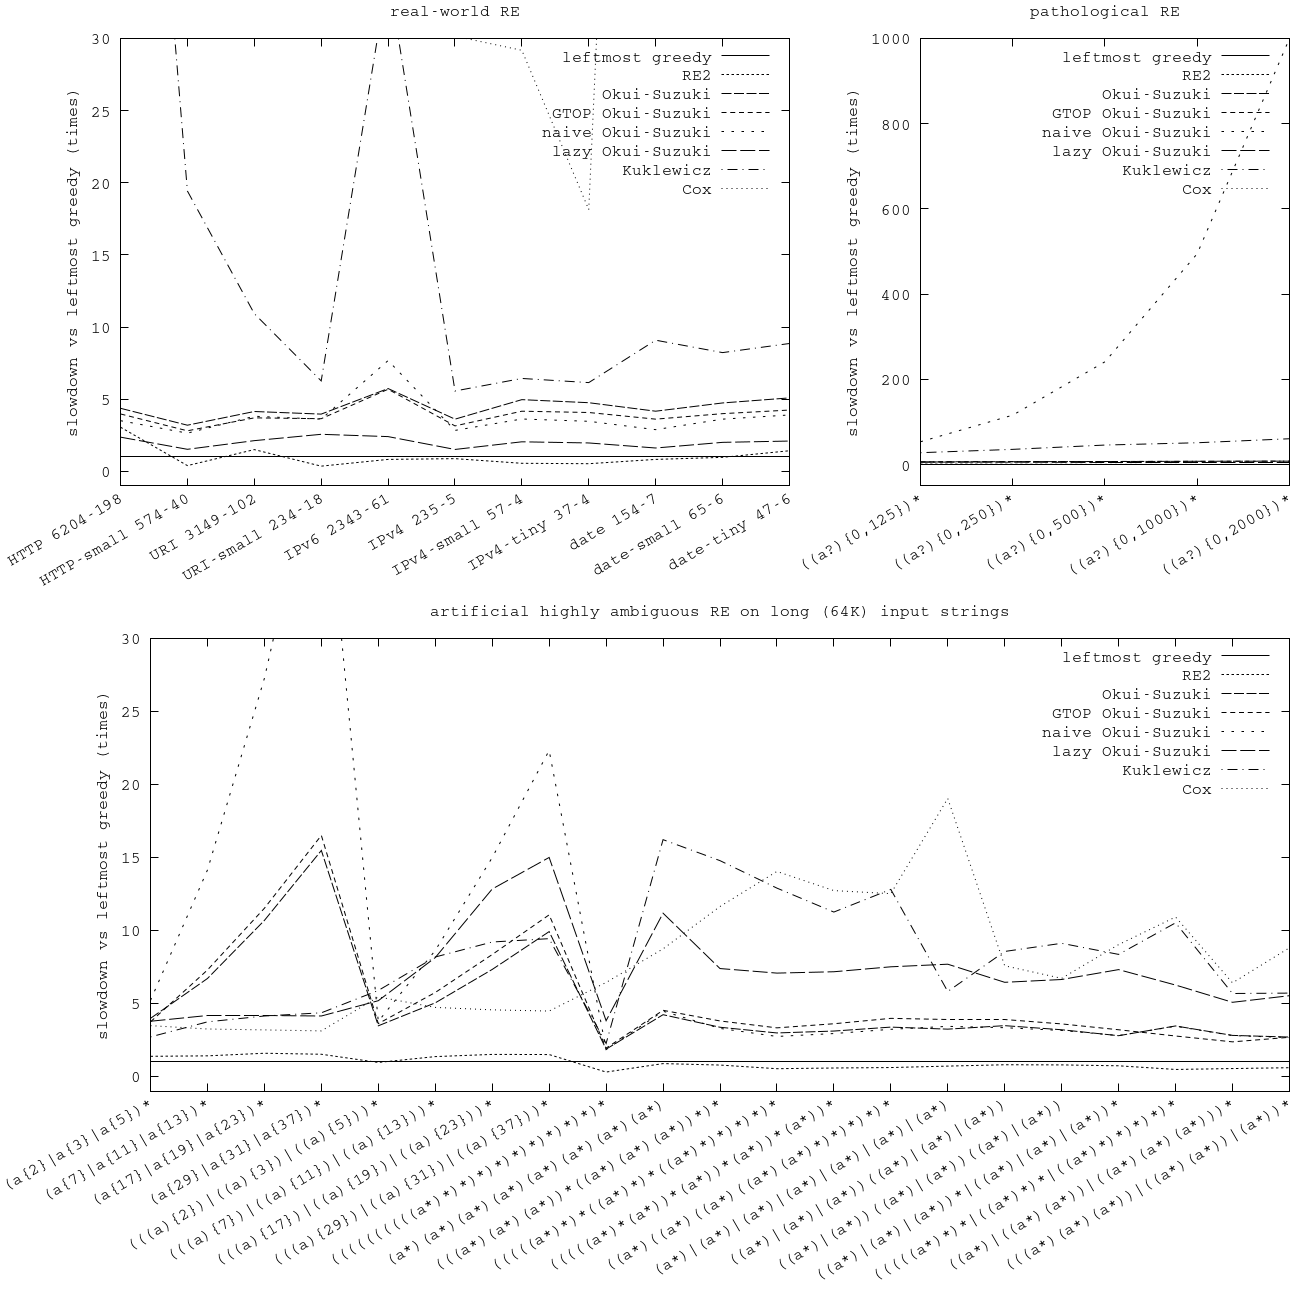
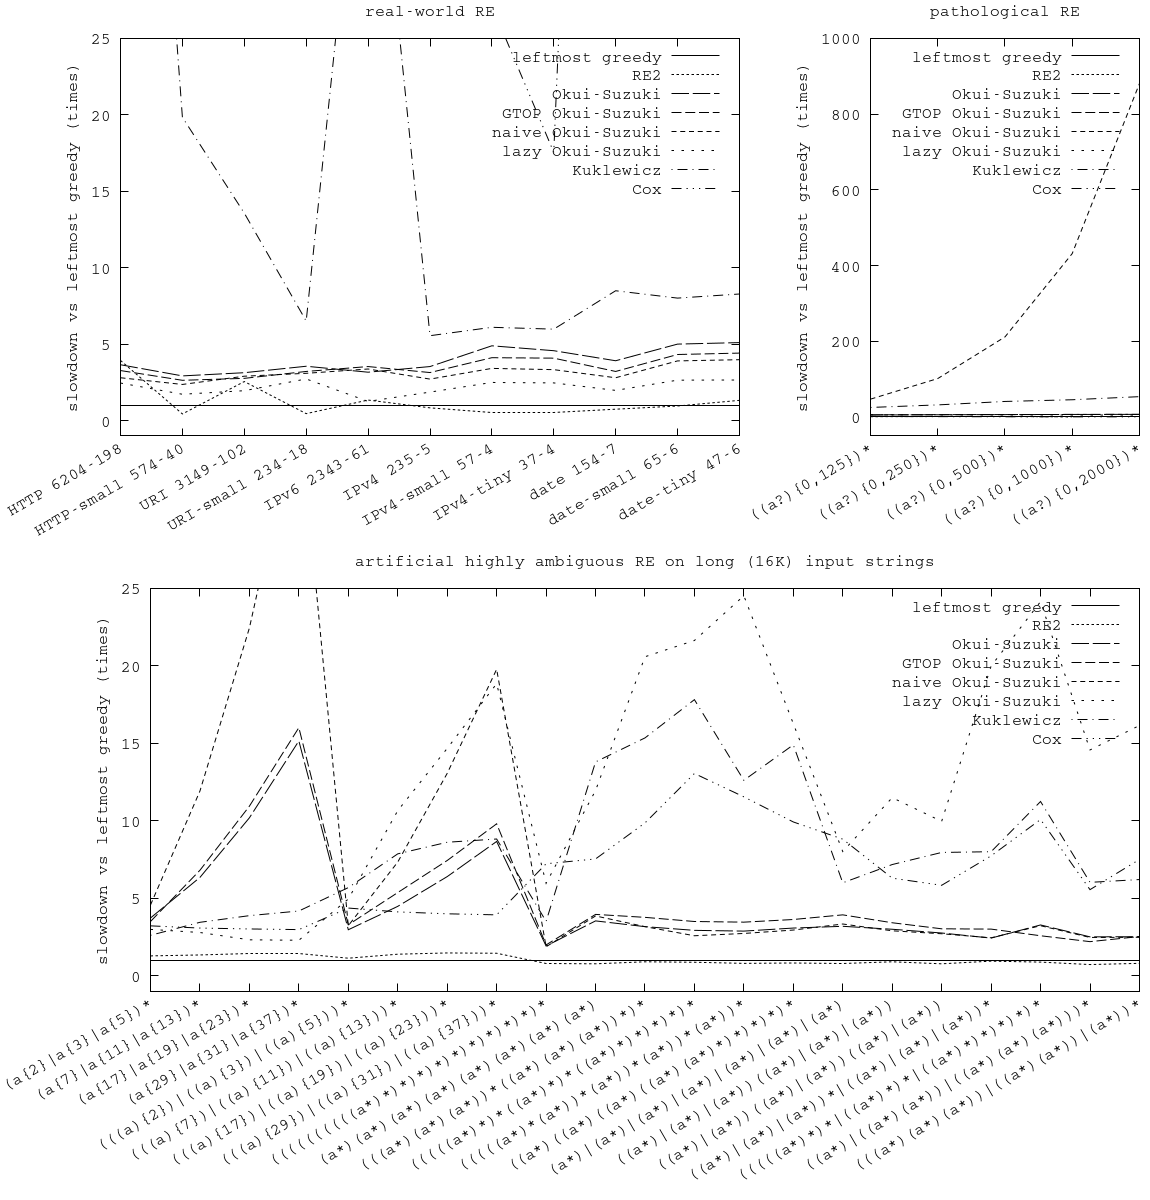
Paper: reworked "Benchmarks" section, added "Conclusions and future work" section.

diff --git a/doc/tdfa_v2/part_1_tnfa.tex b/doc/tdfa_v2/part_1_tnfa.tex
@@ -143,7 +143,7 @@ Our algorithm works in worst-case $O(n \, m^2 \, t)$ time and $O(m^2)$ space,
 where $n$ is the length of input, $m$ is the size of the regular expression with counted repetition subexpressions ``unrolled'',
 and $t$ is the number of capturing groups and subexpressions that contain them.
 %
-Benchmarks show that in practice our algorithm is 2x-10x slower than leftmost greedy matching
+Benchmarks show that in practice our algorithm is about 5x slower than leftmost greedy matching
 (which has no overhead on disambiguation).
 %
 We present a lazy variation that is much faster, but requires memory proportional to the size of input.
@@ -1573,12 +1573,12 @@ We assume the existence of helper function $height(T, t)$ that maps each tag to 
         $t_1 = tag(U, n_1), \; t_2 = tag(U, n_2)$ \;
 
         \BlankLine
-        \lIf {$t_1 mod \, 2 \equiv 0$} { \Return $-1$ }
-        \lIf {$t_2 mod \, 2 \equiv 0$} { \Return $1$ }
-
-        \BlankLine
         \lIf {$t_1 < 0$} { \Return $1$ }
         \lIf {$t_2 < 0$} { \Return $-1$ }
+
+        \BlankLine
+        \lIf {$t_1 mod \, 2 \equiv 0$} { \Return $-1$ }
+        \lIf {$t_2 mod \, 2 \equiv 0$} { \Return $1$ }
 
         \BlankLine
         \Return $0$
@@ -2152,7 +2152,8 @@ Benchmark results show the following:
 \includegraphics[width=\linewidth]{img/bench/plot.png}
 \vspace{-2em}
 \caption{
-Benchmarks.
+Benchmarks.\\
+Real-world tests have labels of the form ``title $m$-$k$'', where $m$ is RE size and $k$ is the number of capturing groups.
 %: real-world RE (upper left),
 %pathological RE for naive precedence table algorithm (upper right),
 %artifical highly ambiguous RE on very long inputs (lower).
@@ -2161,31 +2162,41 @@ Benchmarks.
 
 \begin{itemize}[itemsep=0.5em]
     \item Okui-Suzuki algorithm degrades with increased closure size.
-        This is understandable, as the algorithm performs pairwise comparison of closure states.
+        This is understandable, as the algorithm performs pairwise comparison of closure states to compute precedence matrices.
         Naive $update \Xund ptables ()$ algorithm degrades extremely fast,
-        and the advanced algorithm behaves much better (but it may incur slight overhead in simple cases).
+        and the advanced algorithm behaves much better (though it may incur slight overhead in simple cases).
 
-    \item Cox and Kuklewicz algorithms degrade as the number of tags increases.
-        This is not surprizing, as both algorithms have per-tag inner loops in their core.
-        On large real-world RE Kuklewicz algorithm is much slower than all Okui-Suzuki variations,
-        and Cox algorithm is so slow that it did not fit into the plot space.
+    \item Kuklewicz algorithms degrades with increased closure size and increased number of tags.
+        This is not surprizing, as the algorithm has per-state and per-tag loop used to compute precedence matrix.
+        On real-world tests with many capturing groups Kuklewicz algorithm is much slower than Okui-Suzuki algorithm.
 
-    \item The bottleneck of Cox algorithm is copying of offset arrays.
-        Using GOR1 instead of naive depth-first search, though asymptotically faster,
-        increases the amount of copying because depth-dirst scan order allows to use a single buffer array that is updated and restored in-place.
-        However, copying offset arrays is also required in other parts of the algorithm,
-        and in general Cox algorithm is not suited for RE with many submatch groups.
+    \item Cox algorithm degrades with increased number of tags.
+        The bottleneck of the algorithm is copying of offset arrays
+        (each array contains a pair of offsets per tag).
+        Using GOR1 instead of naive depth-first search increases the amount of copying (though asymptotically faster),
+        because depth-dirst scan order allows to use a single buffer array that is updated and restored in-place.
+        However, copying is required elsewhere in the algorithm,
+        and in general it is not suited for RE with many submatch groups.
+        On real-world tests Cox algorithm is so slow that it did not fit into the plot space.
 
-    \item Lazy variation of Okui-Suzuki is much faster than the main variation on real-world tests and not very long inputs.
+    \item Lazy variation of Okui-Suzuki degrades with increased cache size and the size of path context.
+        This may happen because of long input strings and because of high level of ambiguity in RE
+        (in such cases lazy algorithm does all the work of non-lazy algorithm,
+        but with the additional overhead on cache lookups/insertions and accumulation of data from the previous steps).
+        On real-world tests lazy variation of Okui-Suzuki is fast.
 
-    \item GTOP is somewhat faster than GOR1 on real-world RE, but can be slower on artificial RE.
+    \item GOR1 and GTOP performance is similar.
 
-    \item RE2 performs close to our implementations (sometimes better, sometimes worse).
+    \item RE2 performance is close to our leftmost greedy implementation.
     \\[-0.5em]
 \end{itemize}
 
-One interesting test is RE of the form $(a^{k_1}|\hdots|a^{k_n})^{0,\infty}$,
-e.g. \texttt{(a\{2\}|a\{3\}|a\{5\})*}.
+One particularly interesting group of tests that show the above points
+are RE of the form $(a^{k_1}|\hdots|a^{k_n})^{0,\infty}$
+(artificial tests 1-4)
+and their variations with more capturing groups
+(artificial tests 5-8).
+For example, consider \texttt{(a\{2\}|a\{3\}|a\{5\})*} and \texttt{(((a)\{2\})|((a)\{3\})|((a)\{5\}))*}.
 Given input string \texttt{a...a},
 submatch on the last iteration varies with the length of input:
 it equals \texttt{aaaaa} for $5n$-character string,
@@ -2193,11 +2204,16 @@ it equals \texttt{aaaaa} for $5n$-character string,
 and \texttt{aaa} for strings of length $5n - 2$ and $5n + 1$ ($n \in \YN$).
 Variation continues infinitely with a period of five characters.
 %
-We can increase variation period and the range of possible submatch results by choosing different counter values.
+We can increase variation period and the range of possible submatch results by choosing larger counter values.
 %
-Large period and wide range correspond to a higher level of ambiguity and many parallel competing paths,
-which means increased closure size (hence the slowdown of Okui-Suzuki algorithm, especially the ``naive Okui-Suzuki'' variation).
-Adding more capturing groups increases the number of tags (hence the slowdown of Kuklewicz and Cox algorithms).
+This causes increased closure size ---
+hence the slowdown of Okui-Suzuki algorithm on tests 1 to 4 and 5 to 8 (especially pronounced for the ``naive Okui-Suzuki'' variation),
+and the more gentle slowdown of Kuklewicz algorithm on the same ranges.
+%
+Adding more capturing groups increases the number of tags ---
+hence the slowdown of Kuklewicz and Cox algorithms on 5-8 group compared to 1-4 group.
+%
+%Note that Cox algorithm performs very well on this test and slows down at the same pace as leftmost greedy.
 \\
 
 In closing, we would like to point out that correctness
@@ -2209,7 +2225,37 @@ All algorithms except Cox algorithm have passed the tests
 
 \FloatBarrier
 
+
 \section{Conclusions and future work}
+
+The main result of our work is a practical POSIX matching algorithm
+that can be used on real-world regular expressions,
+does not require complex preprocessing
+and incurs relatively modest disambiguation overhead compared to other algorithms.
+%
+We tried to present the algorithm in full, with a few useful variations,
+in order to make implementation easy for the reader.
+\\
+
+We see a certain tradeoff between speed and memory usage:
+bounded-memory version of the algorithm performs a lot of redundant work,
+and the lazy version avoids redundant work at the expense of potentially unbounded memory usage.
+Both approaches seem not ideal;
+perhaps in practice a hybrid approach can be used.
+\\
+
+It is still an open question to us
+whether it is possible to combine the elegance of derivative-based approach to POSIX disambiguation
+with the practical efficiency of NFA-based methods.
+%
+Derivative-based approach constructs match results in such order that longest-leftmost result is always first.
+%
+We experimented with recursive descent parsers that embrace the same ordering idea,
+but the resulting algorithm was rather complex and slow in practice.
+\\
+
+It would be interesting to apply our approach to automata with counters
+instead of unrolling bounded repetition.
 
 
 \vfill\null
